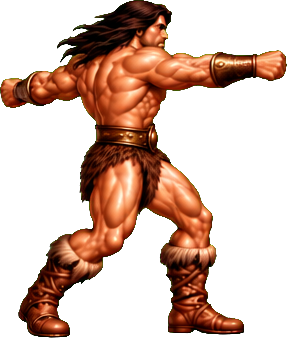
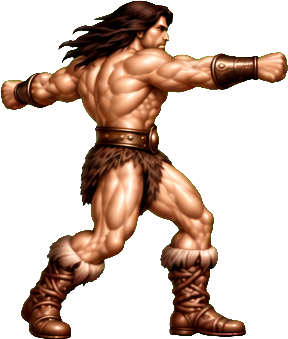
Guarantee opening archer and replace reddish spin artwork

Changed region(s): [[0.0, 0.0, 1.0, 1.0]]

diff --git a/EXTERNAL_RESOURCES.md b/EXTERNAL_RESOURCES.md
@@ -65,3 +65,5 @@ Anton selected by the user. Unmodified `public/fonts/anton.ttf`, SIL OFL 1.1. Ru
 Built-in ImageGen created `godot/art/archer-source.png` and the chroma-key edit `archer-keyed.png`; runtime cels and metadata are baked with `godot/scripts/bake_archer.gd`. No downloaded art. Prompt: 4x2 whole-body sprite sheet, realistic dark-fantasy thin skeleton, green tattered frock, quiver and wooden bow, consistent right-facing idle/retreat/draw/release/hurt poses. Follow-up: preserve sprites and replace background with flat #FF00FF.
 
 Archer quiver-reach pose: built-in ImageGen, `godot/art/archer-quiver-source.png`, baked as `archer-8.png`. Prompt: same green-frock skeleton, right-facing, bow lowered, right hand reaching behind shoulder to grasp an arrow in quiver; flat magenta key background.
+
+Spin color correction: built-in ImageGen edit saved as `godot/art/hero-spin-neutral-source.png`, referenced the normal hero atlas. Prompt: preserve exact sheet layout, poses and wrist/foot registration; replace red/orange skin with neutral tan, cream highlights, umber leather and muted bronze matching the normal hero; keep green key background. Re-baked into existing spin cels.
